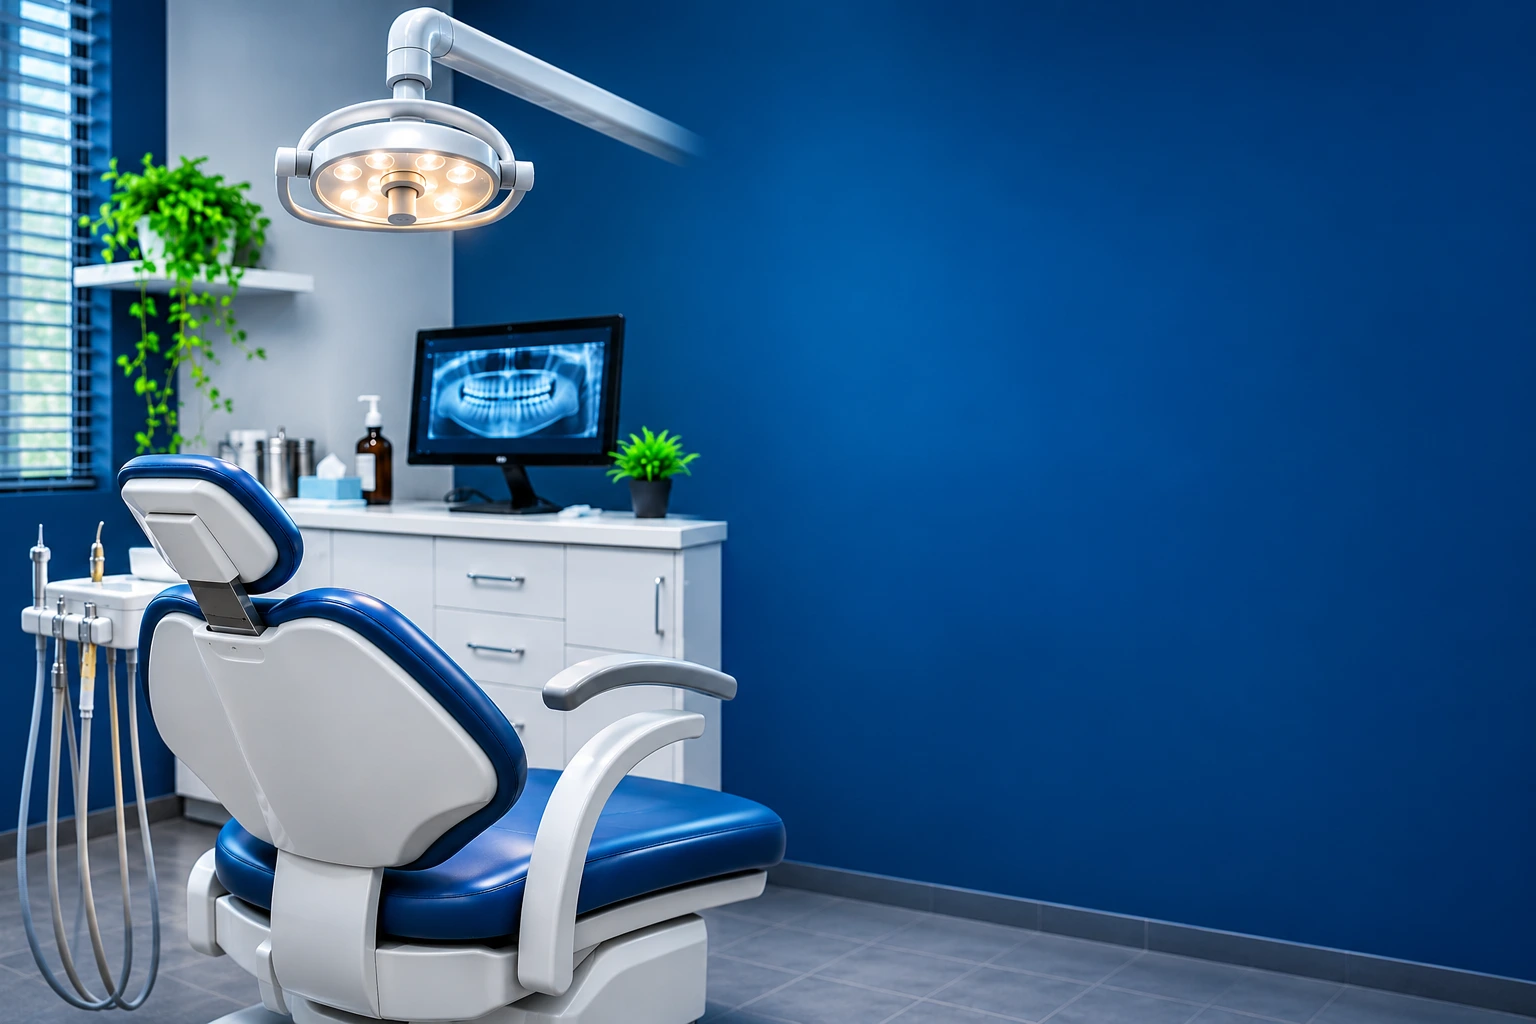
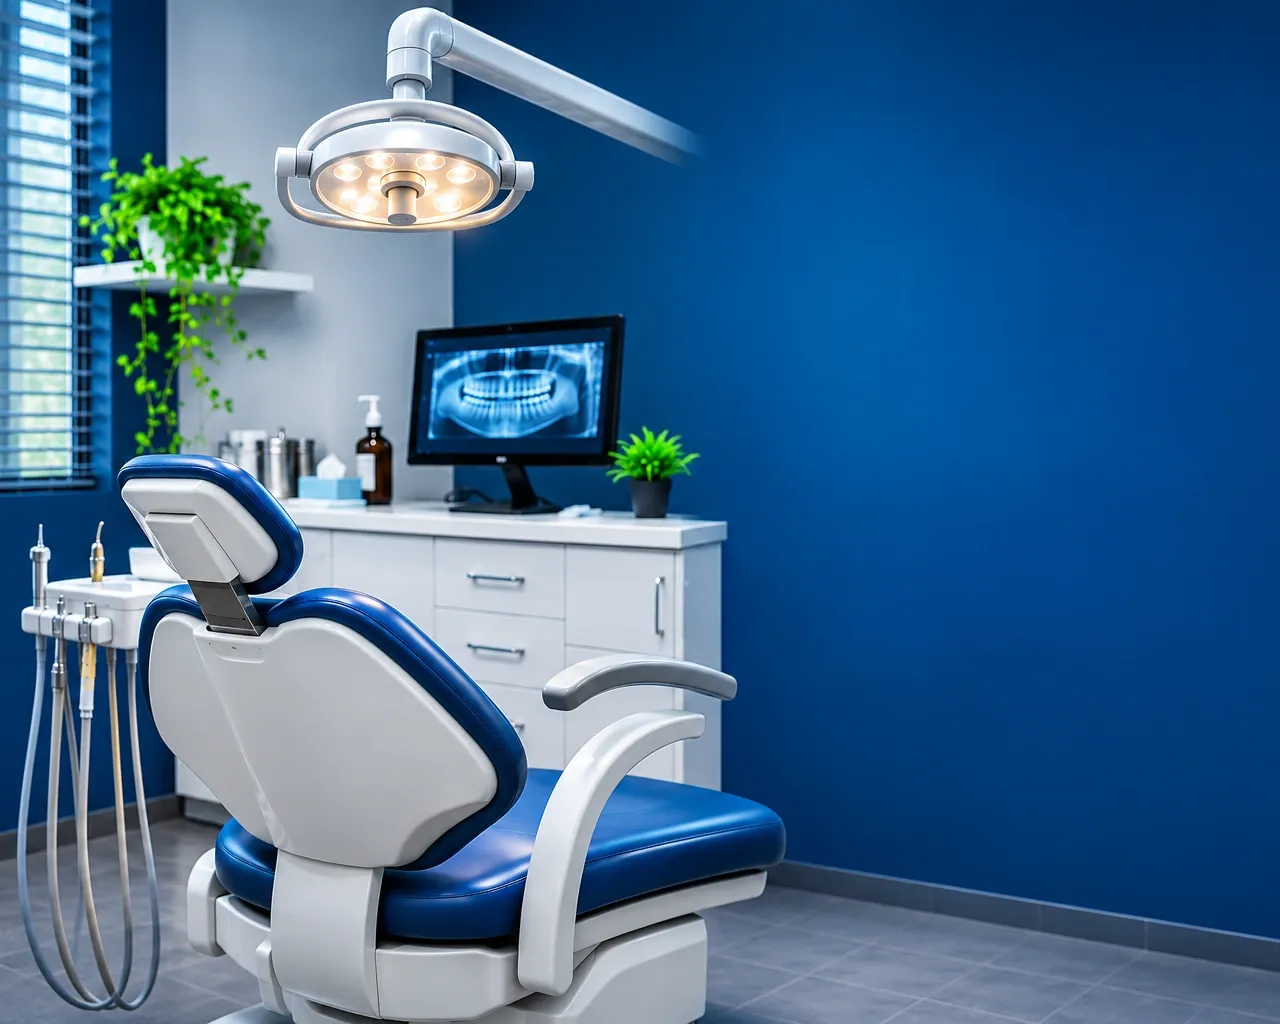
fix(dentist): reframe hero section image to 1.25:1 aspect ratio and remove CSS scale zoom

diff --git a/src/app/industries/digital-marketing-agency-for-dentists/page.module.css b/src/app/industries/digital-marketing-agency-for-dentists/page.module.css
@@ -371,7 +371,7 @@
   inset: 0;
   opacity: 0;
   transition: opacity 0.8s ease-in-out, transform 0.8s ease-in-out;
-  transform: scale(1.02);
+  transform: scale(1);
   pointer-events: none;
 }
 
@@ -383,7 +383,7 @@
 
 .slideImage {
   object-fit: cover;
-  object-position: center;
+  object-position: center center;
 }
 
 .slideOverlay {
@@ -1529,7 +1529,7 @@
   inset: 0;
   opacity: 0;
   transition: opacity 0.8s ease-in-out, transform 0.8s ease-in-out;
-  transform: scale(1.02);
+  transform: scale(1);
   pointer-events: none;
 }
 
@@ -1541,7 +1541,7 @@
 
 .slideImage {
   object-fit: cover;
-  object-position: center;
+  object-position: center center;
 }
 
 .slideOverlay {
